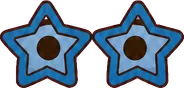
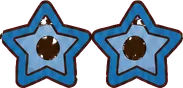
Elf Detective School: glasses keep only their frames, and hide none of the face
The lenses are clear, so the painting of the glasses on their own showed the base
elf's skin and eyes through them (Jaimie: "the glasses look really bad").

diff --git a/assets/js/elf-paint.js b/assets/js/elf-paint.js
@@ -2,7 +2,7 @@
  * scripts/elf-paint/manifest.mjs: do not edit by hand. Read by assets/js/elf-wardrobe.js. */
 (function () {
   "use strict";
-  var PAINT = {"canvas":{"w":1024,"h":1536,"view":[-79,0,1182,1536]},"layers":{"elf-brother-s1-bunches-black":{"x":212,"y":232,"w":614,"h":1107},"elf-brother-s1-bunches-blonde":{"x":167,"y":206,"w":699,"h":1134},"elf-brother-s1-bunches-brown":{"x":193,"y":251,"w":654,"h":1088},"elf-brother-s1-bunches-dark":{"x":189,"y":243,"w":655,"h":1096},"elf-brother-s1-bunches-ginger":{"x":219,"y":241,"w":616,"h":1098},"elf-brother-s1-curly-black":{"x":220,"y":218,"w":607,"h":1120},"elf-brother-s1-curly-blonde":{"x":219,"y":211,"w":609,"h":1128},"elf-brother-s1-curly-brown":{"x":221,"y":230,"w":605,"h":1108},"elf-brother-s1-curly-dark":{"x":220,"y":206,"w":607,"h":1133},"elf-brother-s1-curly-ginger":{"x":219,"y":202,"w":605,"h":1136},"elf-brother-s1-short-black":{"x":219,"y":230,"w":608,"h":1109},"elf-brother-s1-short-blonde":{"x":221,"y":224,"w":606,"h":1114},"elf-brother-s1-short-brown":{"x":221,"y":248,"w":606,"h":1090},"elf-brother-s1-short-dark":{"x":218,"y":230,"w":608,"h":1114},"elf-brother-s1-short-ginger":{"x":220,"y":230,"w":607,"h":1110},"elf-brother-s2-bunches-black":{"x":212,"y":274,"w":624,"h":1063},"elf-brother-s2-bunches-blonde":{"x":176,"y":179,"w":681,"h":1162},"elf-brother-s2-bunches-brown":{"x":183,"y":233,"w":657,"h":1106},"elf-brother-s2-bunches-dark":{"x":201,"y":235,"w":626,"h":1104},"elf-brother-s2-bunches-ginger":{"x":198,"y":236,"w":660,"h":1103},"elf-brother-s2-curly-black":{"x":220,"y":225,"w":607,"h":1114},"elf-brother-s2-curly-blonde":{"x":222,"y":195,"w":605,"h":1145},"elf-brother-s2-curly-brown":{"x":219,"y":225,"w":608,"h":1115},"elf-brother-s2-curly-dark":{"x":220,"y":215,"w":607,"h":1124},"elf-brother-s2-curly-ginger":{"x":220,"y":206,"w":608,"h":1133},"elf-brother-s2-short-black":{"x":218,"y":225,"w":609,"h":1114},"elf-brother-s2-short-blonde":{"x":214,"y":206,"w":612,"h":1136},"elf-brother-s2-short-brown":{"x":220,"y":220,"w":607,"h":1119},"elf-brother-s2-short-dark":{"x":218,"y":199,"w":608,"h":1140},"elf-brother-s2-short-ginger":{"x":221,"y":228,"w":606,"h":1112},"elf-brother-s3-bunches-black":{"x":212,"y":246,"w":612,"h":1093},"elf-brother-s3-bunches-blonde":{"x":184,"y":236,"w":643,"h":1103},"elf-brother-s3-bunches-brown":{"x":180,"y":239,"w":668,"h":1101},"elf-brother-s3-bunches-dark":{"x":220,"y":225,"w":608,"h":1113},"elf-brother-s3-bunches-ginger":{"x":204,"y":207,"w":637,"h":1133},"elf-brother-s3-curly-black":{"x":219,"y":212,"w":609,"h":1127},"elf-brother-s3-curly-blonde":{"x":218,"y":223,"w":607,"h":1117},"elf-brother-s3-curly-brown":{"x":220,"y":204,"w":608,"h":1134},"elf-brother-s3-curly-dark":{"x":220,"y":220,"w":605,"h":1118},"elf-brother-s3-curly-ginger":{"x":219,"y":200,"w":608,"h":1140},"elf-brother-s3-short-black":{"x":219,"y":228,"w":607,"h":1112},"elf-brother-s3-short-blonde":{"x":220,"y":229,"w":607,"h":1109},"elf-brother-s3-short-brown":{"x":217,"y":227,"w":608,"h":1113},"elf-brother-s3-short-dark":{"x":219,"y":224,"w":607,"h":1115},"elf-brother-s3-short-ginger":{"x":218,"y":208,"w":606,"h":1132},"elf-brother-s4-bunches-black":{"x":201,"y":244,"w":623,"h":1096},"elf-brother-s4-bunches-blonde":{"x":217,"y":195,"w":602,"h":1147},"elf-brother-s4-bunches-brown":{"x":216,"y":246,"w":604,"h":1093},"elf-brother-s4-bunches-dark":{"x":166,"y":260,"w":692,"h":1079},"elf-brother-s4-bunches-ginger":{"x":190,"y":232,"w":656,"h":1107},"elf-brother-s4-curly-black":{"x":219,"y":191,"w":604,"h":1156},"elf-brother-s4-curly-blonde":{"x":211,"y":213,"w":617,"h":1128},"elf-brother-s4-curly-brown":{"x":219,"y":207,"w":609,"h":1132},"elf-brother-s4-curly-dark":{"x":211,"y":181,"w":616,"h":1159},"elf-brother-s4-curly-ginger":{"x":221,"y":204,"w":605,"h":1134},"elf-brother-s4-short-black":{"x":219,"y":230,"w":608,"h":1108},"elf-brother-s4-short-blonde":{"x":219,"y":229,"w":608,"h":1111},"elf-brother-s4-short-brown":{"x":220,"y":220,"w":601,"h":1119},"elf-brother-s4-short-dark":{"x":218,"y":213,"w":609,"h":1126},"elf-brother-s4-short-ginger":{"x":220,"y":227,"w":608,"h":1113},"elf-brother-s5-bunches-black":{"x":224,"y":218,"w":602,"h":1121},"elf-brother-s5-bunches-blonde":{"x":178,"y":230,"w":675,"h":1109},"elf-brother-s5-bunches-brown":{"x":209,"y":238,"w":625,"h":1101},"elf-brother-s5-bunches-dark":{"x":203,"y":208,"w":628,"h":1137},"elf-brother-s5-bunches-ginger":{"x":200,"y":189,"w":631,"h":1151},"elf-brother-s5-curly-black":{"x":220,"y":205,"w":606,"h":1134},"elf-brother-s5-curly-blonde":{"x":221,"y":211,"w":601,"h":1128},"elf-brother-s5-curly-brown":{"x":220,"y":224,"w":604,"h":1118},"elf-brother-s5-curly-dark":{"x":221,"y":214,"w":601,"h":1127},"elf-brother-s5-curly-ginger":{"x":221,"y":231,"w":605,"h":1107},"elf-brother-s5-short-black":{"x":220,"y":230,"w":606,"h":1109},"elf-brother-s5-short-blonde":{"x":218,"y":225,"w":607,"h":1114},"elf-brother-s5-short-brown":{"x":221,"y":233,"w":603,"h":1106},"elf-brother-s5-short-dark":{"x":221,"y":232,"w":605,"h":1106},"elf-brother-s5-short-ginger":{"x":215,"y":215,"w":610,"h":1124},"elf-sister-s1-bunches-black":{"x":217,"y":204,"w":613,"h":1135},"elf-sister-s1-bunches-blonde":{"x":216,"y":202,"w":615,"h":1137},"elf-sister-s1-bunches-brown":{"x":217,"y":203,"w":613,"h":1136},"elf-sister-s1-bunches-dark":{"x":217,"y":202,"w":614,"h":1137},"elf-sister-s1-bunches-ginger":{"x":210,"y":204,"w":625,"h":1134},"elf-sister-s1-curly-black":{"x":215,"y":189,"w":616,"h":1148},"elf-sister-s1-curly-blonde":{"x":212,"y":175,"w":613,"h":1165},"elf-sister-s1-curly-brown":{"x":216,"y":198,"w":615,"h":1141},"elf-sister-s1-curly-dark":{"x":216,"y":163,"w":615,"h":1175},"elf-sister-s1-curly-ginger":{"x":217,"y":190,"w":609,"h":1148},"elf-sister-s1-short-black":{"x":215,"y":219,"w":615,"h":1118},"elf-sister-s1-short-blonde":{"x":214,"y":193,"w":615,"h":1146},"elf-sister-s1-short-brown":{"x":218,"y":223,"w":611,"h":1115},"elf-sister-s1-short-dark":{"x":214,"y":198,"w":616,"h":1142},"elf-sister-s1-short-ginger":{"x":226,"y":205,"w":598,"h":1136},"elf-sister-s2-bunches-black":{"x":217,"y":203,"w":613,"h":1136},"elf-sister-s2-bunches-blonde":{"x":217,"y":203,"w":614,"h":1136},"elf-sister-s2-bunches-brown":{"x":216,"y":201,"w":614,"h":1138},"elf-sister-s2-bunches-dark":{"x":215,"y":202,"w":615,"h":1136},"elf-sister-s2-bunches-ginger":{"x":216,"y":201,"w":614,"h":1137},"elf-sister-s2-curly-black":{"x":215,"y":181,"w":616,"h":1157},"elf-sister-s2-curly-blonde":{"x":217,"y":189,"w":612,"h":1149},"elf-sister-s2-curly-brown":{"x":215,"y":181,"w":616,"h":1158},"elf-sister-s2-curly-dark":{"x":216,"y":180,"w":615,"h":1159},"elf-sister-s2-curly-ginger":{"x":217,"y":194,"w":613,"h":1145},"elf-sister-s2-short-black":{"x":216,"y":213,"w":615,"h":1126},"elf-sister-s2-short-blonde":{"x":216,"y":208,"w":614,"h":1131},"elf-sister-s2-short-brown":{"x":217,"y":190,"w":611,"h":1149},"elf-sister-s2-short-dark":{"x":217,"y":199,"w":612,"h":1139},"elf-sister-s2-short-ginger":{"x":217,"y":185,"w":613,"h":1155},"elf-sister-s3-bunches-black":{"x":217,"y":205,"w":612,"h":1133},"elf-sister-s3-bunches-blonde":{"x":208,"y":202,"w":626,"h":1136},"elf-sister-s3-bunches-brown":{"x":213,"y":200,"w":617,"h":1138},"elf-sister-s3-bunches-dark":{"x":218,"y":203,"w":611,"h":1136},"elf-sister-s3-bunches-ginger":{"x":217,"y":205,"w":612,"h":1133},"elf-sister-s3-curly-black":{"x":219,"y":195,"w":610,"h":1144},"elf-sister-s3-curly-blonde":{"x":216,"y":203,"w":612,"h":1136},"elf-sister-s3-curly-brown":{"x":217,"y":185,"w":610,"h":1158},"elf-sister-s3-curly-dark":{"x":216,"y":193,"w":615,"h":1146},"elf-sister-s3-curly-ginger":{"x":215,"y":185,"w":613,"h":1153},"elf-sister-s3-short-black":{"x":217,"y":182,"w":613,"h":1157},"elf-sister-s3-short-blonde":{"x":218,"y":183,"w":610,"h":1157},"elf-sister-s3-short-brown":{"x":215,"y":202,"w":615,"h":1137},"elf-sister-s3-short-dark":{"x":216,"y":184,"w":616,"h":1154},"elf-sister-s3-short-ginger":{"x":216,"y":175,"w":615,"h":1162},"elf-sister-s4-bunches-black":{"x":214,"y":197,"w":615,"h":1139},"elf-sister-s4-bunches-blonde":{"x":209,"y":201,"w":625,"h":1139},"elf-sister-s4-bunches-brown":{"x":216,"y":199,"w":615,"h":1139},"elf-sister-s4-bunches-dark":{"x":215,"y":202,"w":616,"h":1137},"elf-sister-s4-bunches-ginger":{"x":208,"y":175,"w":628,"h":1169},"elf-sister-s4-curly-black":{"x":216,"y":155,"w":615,"h":1185},"elf-sister-s4-curly-blonde":{"x":216,"y":160,"w":610,"h":1183},"elf-sister-s4-curly-brown":{"x":216,"y":190,"w":614,"h":1149},"elf-sister-s4-curly-dark":{"x":216,"y":191,"w":611,"h":1147},"elf-sister-s4-curly-ginger":{"x":216,"y":196,"w":615,"h":1143},"elf-sister-s4-short-black":{"x":216,"y":183,"w":614,"h":1158},"elf-sister-s4-short-blonde":{"x":209,"y":185,"w":625,"h":1155},"elf-sister-s4-short-brown":{"x":206,"y":168,"w":625,"h":1173},"elf-sister-s4-short-dark":{"x":214,"y":201,"w":617,"h":1137},"elf-sister-s4-short-ginger":{"x":215,"y":180,"w":616,"h":1172},"elf-sister-s5-bunches-black":{"x":218,"y":205,"w":611,"h":1133},"elf-sister-s5-bunches-blonde":{"x":217,"y":202,"w":613,"h":1139},"elf-sister-s5-bunches-brown":{"x":216,"y":203,"w":614,"h":1135},"elf-sister-s5-bunches-dark":{"x":204,"y":174,"w":630,"h":1167},"elf-sister-s5-bunches-ginger":{"x":206,"y":187,"w":631,"h":1154},"elf-sister-s5-curly-black":{"x":217,"y":204,"w":612,"h":1135},"elf-sister-s5-curly-blonde":{"x":214,"y":177,"w":617,"h":1164},"elf-sister-s5-curly-brown":{"x":202,"y":168,"w":638,"h":1172},"elf-sister-s5-curly-dark":{"x":216,"y":209,"w":614,"h":1129},"elf-sister-s5-curly-ginger":{"x":206,"y":199,"w":628,"h":1142},"elf-sister-s5-short-black":{"x":213,"y":200,"w":613,"h":1139},"elf-sister-s5-short-blonde":{"x":216,"y":195,"w":614,"h":1143},"elf-sister-s5-short-brown":{"x":217,"y":201,"w":612,"h":1137},"elf-sister-s5-short-dark":{"x":216,"y":167,"w":613,"h":1177},"elf-sister-s5-short-ginger":{"x":218,"y":193,"w":612,"h":1147},"outfit-ginger":{"x":225,"y":205,"w":608,"h":1127,"cover":{"x":0,"y":0,"w":1024,"h":1536}},"outfit-golden":{"x":133,"y":171,"w":667,"h":1209,"cover":{"x":0,"y":0,"w":1024,"h":1536}},"outfit-grad":{"x":195,"y":137,"w":654,"h":1118,"cover":{"x":0,"y":0,"w":1024,"h":1536}},"outfit-nessie":{"x":243,"y":110,"w":671,"h":1191,"cover":{"x":0,"y":0,"w":1024,"h":1536}},"outfit-piper":{"x":260,"y":142,"w":647,"h":1250,"cover":{"x":0,"y":0,"w":1024,"h":1536}},"outfit-present":{"x":214,"y":162,"w":619,"h":1181,"cover":{"x":0,"y":0,"w":1024,"h":1536}},"outfit-pudding":{"x":148,"y":182,"w":765,"h":1136,"cover":{"x":0,"y":0,"w":1024,"h":1536}},"outfit-reindeer":{"x":192,"y":83,"w":686,"h":1210,"cover":{"x":0,"y":0,"w":1024,"h":1536}},"outfit-snowman":{"x":208,"y":132,"w":627,"h":1242,"cover":{"x":0,"y":0,"w":1024,"h":1536}},"outfit-tree":{"x":171,"y":54,"w":714,"h":1240,"cover":{"x":0,"y":0,"w":1024,"h":1536}},"outfit-workshop":{"x":104,"y":99,"w":773,"h":1271,"cover":{"x":0,"y":0,"w":1024,"h":1536}},"piece-badge-bronze":{"x":533,"y":757,"w":95,"h":96,"cover":{"x":656,"y":746,"w":12,"h":22}},"piece-badge-gold":{"x":533,"y":757,"w":96,"h":96,"cover":{"x":656,"y":746,"w":12,"h":21}},"piece-badge-silver":{"x":533,"y":758,"w":96,"h":95,"cover":{"x":656,"y":747,"w":12,"h":21}},"piece-bobble-blue":{"x":250,"y":54,"w":531,"h":435,"cover":{"x":210,"y":0,"w":611,"h":488}},"piece-bobble-green":{"x":248,"y":50,"w":532,"h":445,"cover":{"x":208,"y":0,"w":612,"h":495}},"piece-bobble-red":{"x":249,"y":53,"w":532,"h":448,"cover":{"x":209,"y":0,"w":611,"h":500}},"piece-boots-blue":{"x":380,"y":1176,"w":283,"h":181,"cover":{"x":513,"y":1280,"w":14,"h":41}},"piece-boots-brown":{"x":378,"y":1177,"w":284,"h":181,"cover":{"x":510,"y":1137,"w":17,"h":180}},"piece-boots-red":{"x":379,"y":1177,"w":283,"h":180,"cover":{"x":510,"y":1137,"w":17,"h":182}},"piece-bow-gold":{"x":455,"y":706,"w":142,"h":69,"cover":{"x":416,"y":697,"w":49,"h":23}},"piece-bow-green":{"x":457,"y":707,"w":139,"h":68,"cover":{"x":417,"y":696,"w":219,"h":23}},"piece-bow-red":{"x":456,"y":706,"w":139,"h":67,"cover":{"x":416,"y":671,"w":219,"h":48}},"piece-coat-grey":{"x":281,"y":663,"w":486,"h":503,"cover":{"x":317,"y":648,"w":403,"h":400}},"piece-coat-navy":{"x":272,"y":613,"w":500,"h":551,"cover":{"x":247,"y":648,"w":497,"h":410}},"piece-coat-tan":{"x":282,"y":663,"w":486,"h":504,"cover":{"x":318,"y":649,"w":404,"h":398}},"piece-crown-gold":{"x":278,"y":169,"w":478,"h":239,"cover":{"x":251,"y":185,"w":539,"h":238}},"piece-crown-green":{"x":278,"y":169,"w":476,"h":243,"cover":{"x":248,"y":185,"w":545,"h":261}},"piece-crown-red":{"x":278,"y":171,"w":478,"h":239,"cover":{"x":248,"y":185,"w":542,"h":261}},"piece-curly-gold":{"x":344,"y":1213,"w":350,"h":139,"cover":{"x":474,"y":1276,"w":92,"h":62}},"piece-curly-green":{"x":344,"y":1218,"w":348,"h":131,"cover":{"x":469,"y":1272,"w":102,"h":66}},"piece-curly-maroon":{"x":347,"y":1223,"w":345,"h":125,"cover":{"x":470,"y":1288,"w":102,"h":50}},"piece-deer-green":{"x":257,"y":159,"w":529,"h":314,"cover":{"x":217,"y":0,"w":609,"h":472}},"piece-deer-grey":{"x":257,"y":158,"w":522,"h":292,"cover":{"x":217,"y":0,"w":602,"h":466}},"piece-deer-tan":{"x":257,"y":156,"w":531,"h":318,"cover":{"x":217,"y":0,"w":610,"h":473}},"piece-elf-blue":{"x":267,"y":115,"w":598,"h":408,"cover":{"x":227,"y":0,"w":661,"h":523}},"piece-elf-green":{"x":267,"y":115,"w":598,"h":391,"cover":{"x":227,"y":0,"w":673,"h":506}},"piece-elf-red":{"x":266,"y":114,"w":600,"h":399,"cover":{"x":226,"y":0,"w":669,"h":512}},"piece-jumper-blue":{"x":265,"y":643,"w":504,"h":334,"cover":{"x":291,"y":652,"w":451,"h":84}},"piece-jumper-green":{"x":269,"y":638,"w":517,"h":332,"cover":{"x":297,"y":652,"w":471,"h":84}},"piece-jumper-red":{"x":241,"y":609,"w":555,"h":388,"cover":{"x":244,"y":651,"w":505,"h":86}},"piece-lantern-gold":{"x":185,"y":954,"w":176,"h":378,"cover":{"x":251,"y":946,"w":142,"h":103}},"piece-lantern-green":{"x":185,"y":895,"w":197,"h":438,"cover":{"x":251,"y":701,"w":195,"h":348}},"piece-lantern-red":{"x":184,"y":895,"w":196,"h":437,"cover":{"x":251,"y":706,"w":183,"h":339}},"piece-mag-brass":{"x":47,"y":540,"w":269,"h":426,"cover":{"x":248,"y":937,"w":148,"h":121}},"piece-mag-gold":{"x":47,"y":542,"w":269,"h":425,"cover":{"x":248,"y":937,"w":156,"h":121}},"piece-mag-silver":{"x":49,"y":541,"w":268,"h":425,"cover":{"x":248,"y":936,"w":157,"h":122}},"piece-notebook-blue":{"x":611,"y":786,"w":225,"h":267,"cover":{"x":391,"y":587,"w":436,"h":595}},"piece-notebook-green":{"x":610,"y":786,"w":225,"h":267,"cover":{"x":397,"y":585,"w":430,"h":593}},"piece-notebook-red":{"x":611,"y":785,"w":226,"h":267,"cover":{"x":418,"y":1016,"w":385,"h":196}},"piece-puffer-blue":{"x":282,"y":620,"w":487,"h":386,"cover":{"x":264,"y":729,"w":523,"h":311}},"piece-puffer-green":{"x":273,"y":619,"w":503,"h":411,"cover":{"x":251,"y":654,"w":549,"h":390}},"piece-puffer-red":{"x":280,"y":628,"w":493,"h":376,"cover":{"x":269,"y":922,"w":521,"h":90}},"piece-santa-blue":{"x":247,"y":146,"w":661,"h":480,"cover":{"x":215,"y":0,"w":733,"h":626}},"piece-santa-green":{"x":247,"y":147,"w":661,"h":479,"cover":{"x":215,"y":0,"w":732,"h":626}},"piece-santa-red":{"x":247,"y":144,"w":661,"h":481,"cover":{"x":215,"y":0,"w":733,"h":625}},"piece-satchel-brown":{"x":420,"y":698,"w":284,"h":365,"cover":{"x":401,"y":660,"w":341,"h":393}},"piece-satchel-green":{"x":428,"y":704,"w":275,"h":358,"cover":{"x":409,"y":665,"w":333,"h":388}},"piece-satchel-red":{"x":423,"y":698,"w":285,"h":366,"cover":{"x":386,"y":696,"w":321,"h":348}},"piece-specs-black":{"x":330,"y":481,"w":394,"h":141,"cover":{"x":386,"y":582,"w":378,"h":80}},"piece-specs-gold":{"x":316,"y":477,"w":420,"h":150,"cover":{"x":276,"y":568,"w":503,"h":99}},"piece-specs-red":{"x":347,"y":486,"w":363,"h":134,"cover":{"x":386,"y":652,"w":281,"h":8}},"piece-stars-blue":{"x":344,"y":449,"w":368,"h":176,"cover":{"x":378,"y":653,"w":288,"h":12}},"piece-stars-gold":{"x":344,"y":449,"w":369,"h":176,"cover":{"x":379,"y":653,"w":293,"h":11}},"piece-stars-red":{"x":297,"y":426,"w":445,"h":216,"cover":{"x":254,"y":455,"w":149,"h":207}},"piece-stripe-blue":{"x":388,"y":658,"w":277,"h":365,"cover":{"x":369,"y":654,"w":304,"h":360}},"piece-stripe-green":{"x":388,"y":655,"w":277,"h":368,"cover":{"x":369,"y":746,"w":316,"h":268}},"piece-stripe-red":{"x":388,"y":655,"w":277,"h":369,"cover":{"x":359,"y":652,"w":344,"h":392}},"piece-tammy-blue":{"x":208,"y":153,"w":592,"h":318,"cover":{"x":168,"y":0,"w":672,"h":471}},"piece-tammy-green":{"x":209,"y":153,"w":593,"h":320,"cover":{"x":169,"y":0,"w":673,"h":473}},"piece-tammy-red":{"x":208,"y":152,"w":593,"h":320,"cover":{"x":168,"y":0,"w":672,"h":471}},"piece-tartan-blue":{"x":394,"y":655,"w":266,"h":336,"cover":{"x":374,"y":653,"w":298,"h":375}},"piece-tartan-green":{"x":394,"y":645,"w":266,"h":345,"cover":{"x":370,"y":654,"w":310,"h":138}},"piece-tartan-red":{"x":395,"y":643,"w":266,"h":349,"cover":{"x":371,"y":740,"w":29,"h":52}},"piece-tinsel-gold":{"x":391,"y":666,"w":263,"h":170,"cover":{"x":364,"y":652,"w":328,"h":153}},"piece-tinsel-red":{"x":387,"y":668,"w":270,"h":169,"cover":{"x":362,"y":653,"w":305,"h":156}},"piece-tinsel-silver":{"x":388,"y":671,"w":270,"h":165,"cover":{"x":362,"y":654,"w":311,"h":155}},"piece-torch-blue":{"x":144,"y":661,"w":174,"h":287,"cover":{"x":248,"y":903,"w":161,"h":155}},"piece-torch-green":{"x":144,"y":663,"w":173,"h":286,"cover":{"x":248,"y":902,"w":158,"h":156}},"piece-torch-red":{"x":143,"y":661,"w":174,"h":287,"cover":{"x":248,"y":902,"w":158,"h":156}},"piece-tunic-blue":{"x":194,"y":592,"w":589,"h":455,"cover":{"x":298,"y":737,"w":370,"h":266}},"piece-tunic-green":{"x":278,"y":694,"w":524,"h":390,"cover":{"x":380,"y":897,"w":288,"h":103}},"piece-tunic-red":{"x":304,"y":630,"w":429,"h":370,"cover":{"x":380,"y":741,"w":331,"h":261}},"piece-wellies-green":{"x":387,"y":1127,"w":272,"h":238,"cover":{"x":505,"y":1245,"w":45,"h":92}},"piece-wellies-red":{"x":386,"y":1130,"w":273,"h":235,"cover":{"x":504,"y":1249,"w":46,"h":88}},"piece-wellies-yellow":{"x":387,"y":1131,"w":273,"h":233,"cover":{"x":508,"y":1220,"w":43,"h":117}}}};
+  var PAINT = {"canvas":{"w":1024,"h":1536,"view":[-79,0,1182,1536]},"layers":{"elf-brother-s1-bunches-black":{"x":212,"y":232,"w":614,"h":1107},"elf-brother-s1-bunches-blonde":{"x":167,"y":206,"w":699,"h":1134},"elf-brother-s1-bunches-brown":{"x":193,"y":251,"w":654,"h":1088},"elf-brother-s1-bunches-dark":{"x":189,"y":243,"w":655,"h":1096},"elf-brother-s1-bunches-ginger":{"x":219,"y":241,"w":616,"h":1098},"elf-brother-s1-curly-black":{"x":220,"y":218,"w":607,"h":1120},"elf-brother-s1-curly-blonde":{"x":219,"y":211,"w":609,"h":1128},"elf-brother-s1-curly-brown":{"x":221,"y":230,"w":605,"h":1108},"elf-brother-s1-curly-dark":{"x":220,"y":206,"w":607,"h":1133},"elf-brother-s1-curly-ginger":{"x":219,"y":202,"w":605,"h":1136},"elf-brother-s1-short-black":{"x":219,"y":230,"w":608,"h":1109},"elf-brother-s1-short-blonde":{"x":221,"y":224,"w":606,"h":1114},"elf-brother-s1-short-brown":{"x":221,"y":248,"w":606,"h":1090},"elf-brother-s1-short-dark":{"x":218,"y":230,"w":608,"h":1114},"elf-brother-s1-short-ginger":{"x":220,"y":230,"w":607,"h":1110},"elf-brother-s2-bunches-black":{"x":212,"y":274,"w":624,"h":1063},"elf-brother-s2-bunches-blonde":{"x":176,"y":179,"w":681,"h":1162},"elf-brother-s2-bunches-brown":{"x":183,"y":233,"w":657,"h":1106},"elf-brother-s2-bunches-dark":{"x":201,"y":235,"w":626,"h":1104},"elf-brother-s2-bunches-ginger":{"x":198,"y":236,"w":660,"h":1103},"elf-brother-s2-curly-black":{"x":220,"y":225,"w":607,"h":1114},"elf-brother-s2-curly-blonde":{"x":222,"y":195,"w":605,"h":1145},"elf-brother-s2-curly-brown":{"x":219,"y":225,"w":608,"h":1115},"elf-brother-s2-curly-dark":{"x":220,"y":215,"w":607,"h":1124},"elf-brother-s2-curly-ginger":{"x":220,"y":206,"w":608,"h":1133},"elf-brother-s2-short-black":{"x":218,"y":225,"w":609,"h":1114},"elf-brother-s2-short-blonde":{"x":214,"y":206,"w":612,"h":1136},"elf-brother-s2-short-brown":{"x":220,"y":220,"w":607,"h":1119},"elf-brother-s2-short-dark":{"x":218,"y":199,"w":608,"h":1140},"elf-brother-s2-short-ginger":{"x":221,"y":228,"w":606,"h":1112},"elf-brother-s3-bunches-black":{"x":212,"y":246,"w":612,"h":1093},"elf-brother-s3-bunches-blonde":{"x":184,"y":236,"w":643,"h":1103},"elf-brother-s3-bunches-brown":{"x":180,"y":239,"w":668,"h":1101},"elf-brother-s3-bunches-dark":{"x":220,"y":225,"w":608,"h":1113},"elf-brother-s3-bunches-ginger":{"x":204,"y":207,"w":637,"h":1133},"elf-brother-s3-curly-black":{"x":219,"y":212,"w":609,"h":1127},"elf-brother-s3-curly-blonde":{"x":218,"y":223,"w":607,"h":1117},"elf-brother-s3-curly-brown":{"x":220,"y":204,"w":608,"h":1134},"elf-brother-s3-curly-dark":{"x":220,"y":220,"w":605,"h":1118},"elf-brother-s3-curly-ginger":{"x":219,"y":200,"w":608,"h":1140},"elf-brother-s3-short-black":{"x":219,"y":228,"w":607,"h":1112},"elf-brother-s3-short-blonde":{"x":220,"y":229,"w":607,"h":1109},"elf-brother-s3-short-brown":{"x":217,"y":227,"w":608,"h":1113},"elf-brother-s3-short-dark":{"x":219,"y":224,"w":607,"h":1115},"elf-brother-s3-short-ginger":{"x":218,"y":208,"w":606,"h":1132},"elf-brother-s4-bunches-black":{"x":201,"y":244,"w":623,"h":1096},"elf-brother-s4-bunches-blonde":{"x":217,"y":195,"w":602,"h":1147},"elf-brother-s4-bunches-brown":{"x":216,"y":246,"w":604,"h":1093},"elf-brother-s4-bunches-dark":{"x":166,"y":260,"w":692,"h":1079},"elf-brother-s4-bunches-ginger":{"x":190,"y":232,"w":656,"h":1107},"elf-brother-s4-curly-black":{"x":219,"y":191,"w":604,"h":1156},"elf-brother-s4-curly-blonde":{"x":211,"y":213,"w":617,"h":1128},"elf-brother-s4-curly-brown":{"x":219,"y":207,"w":609,"h":1132},"elf-brother-s4-curly-dark":{"x":211,"y":181,"w":616,"h":1159},"elf-brother-s4-curly-ginger":{"x":221,"y":204,"w":605,"h":1134},"elf-brother-s4-short-black":{"x":219,"y":230,"w":608,"h":1108},"elf-brother-s4-short-blonde":{"x":219,"y":229,"w":608,"h":1111},"elf-brother-s4-short-brown":{"x":220,"y":220,"w":601,"h":1119},"elf-brother-s4-short-dark":{"x":218,"y":213,"w":609,"h":1126},"elf-brother-s4-short-ginger":{"x":220,"y":227,"w":608,"h":1113},"elf-brother-s5-bunches-black":{"x":224,"y":218,"w":602,"h":1121},"elf-brother-s5-bunches-blonde":{"x":178,"y":230,"w":675,"h":1109},"elf-brother-s5-bunches-brown":{"x":209,"y":238,"w":625,"h":1101},"elf-brother-s5-bunches-dark":{"x":203,"y":208,"w":628,"h":1137},"elf-brother-s5-bunches-ginger":{"x":200,"y":189,"w":631,"h":1151},"elf-brother-s5-curly-black":{"x":220,"y":205,"w":606,"h":1134},"elf-brother-s5-curly-blonde":{"x":221,"y":211,"w":601,"h":1128},"elf-brother-s5-curly-brown":{"x":220,"y":224,"w":604,"h":1118},"elf-brother-s5-curly-dark":{"x":221,"y":214,"w":601,"h":1127},"elf-brother-s5-curly-ginger":{"x":221,"y":231,"w":605,"h":1107},"elf-brother-s5-short-black":{"x":220,"y":230,"w":606,"h":1109},"elf-brother-s5-short-blonde":{"x":218,"y":225,"w":607,"h":1114},"elf-brother-s5-short-brown":{"x":221,"y":233,"w":603,"h":1106},"elf-brother-s5-short-dark":{"x":221,"y":232,"w":605,"h":1106},"elf-brother-s5-short-ginger":{"x":215,"y":215,"w":610,"h":1124},"elf-sister-s1-bunches-black":{"x":217,"y":204,"w":613,"h":1135},"elf-sister-s1-bunches-blonde":{"x":216,"y":202,"w":615,"h":1137},"elf-sister-s1-bunches-brown":{"x":217,"y":203,"w":613,"h":1136},"elf-sister-s1-bunches-dark":{"x":217,"y":202,"w":614,"h":1137},"elf-sister-s1-bunches-ginger":{"x":210,"y":204,"w":625,"h":1134},"elf-sister-s1-curly-black":{"x":215,"y":189,"w":616,"h":1148},"elf-sister-s1-curly-blonde":{"x":212,"y":175,"w":613,"h":1165},"elf-sister-s1-curly-brown":{"x":216,"y":198,"w":615,"h":1141},"elf-sister-s1-curly-dark":{"x":216,"y":163,"w":615,"h":1175},"elf-sister-s1-curly-ginger":{"x":217,"y":190,"w":609,"h":1148},"elf-sister-s1-short-black":{"x":215,"y":219,"w":615,"h":1118},"elf-sister-s1-short-blonde":{"x":214,"y":193,"w":615,"h":1146},"elf-sister-s1-short-brown":{"x":218,"y":223,"w":611,"h":1115},"elf-sister-s1-short-dark":{"x":214,"y":198,"w":616,"h":1142},"elf-sister-s1-short-ginger":{"x":226,"y":205,"w":598,"h":1136},"elf-sister-s2-bunches-black":{"x":217,"y":203,"w":613,"h":1136},"elf-sister-s2-bunches-blonde":{"x":217,"y":203,"w":614,"h":1136},"elf-sister-s2-bunches-brown":{"x":216,"y":201,"w":614,"h":1138},"elf-sister-s2-bunches-dark":{"x":215,"y":202,"w":615,"h":1136},"elf-sister-s2-bunches-ginger":{"x":216,"y":201,"w":614,"h":1137},"elf-sister-s2-curly-black":{"x":215,"y":181,"w":616,"h":1157},"elf-sister-s2-curly-blonde":{"x":217,"y":189,"w":612,"h":1149},"elf-sister-s2-curly-brown":{"x":215,"y":181,"w":616,"h":1158},"elf-sister-s2-curly-dark":{"x":216,"y":180,"w":615,"h":1159},"elf-sister-s2-curly-ginger":{"x":217,"y":194,"w":613,"h":1145},"elf-sister-s2-short-black":{"x":216,"y":213,"w":615,"h":1126},"elf-sister-s2-short-blonde":{"x":216,"y":208,"w":614,"h":1131},"elf-sister-s2-short-brown":{"x":217,"y":190,"w":611,"h":1149},"elf-sister-s2-short-dark":{"x":217,"y":199,"w":612,"h":1139},"elf-sister-s2-short-ginger":{"x":217,"y":185,"w":613,"h":1155},"elf-sister-s3-bunches-black":{"x":217,"y":205,"w":612,"h":1133},"elf-sister-s3-bunches-blonde":{"x":208,"y":202,"w":626,"h":1136},"elf-sister-s3-bunches-brown":{"x":213,"y":200,"w":617,"h":1138},"elf-sister-s3-bunches-dark":{"x":218,"y":203,"w":611,"h":1136},"elf-sister-s3-bunches-ginger":{"x":217,"y":205,"w":612,"h":1133},"elf-sister-s3-curly-black":{"x":219,"y":195,"w":610,"h":1144},"elf-sister-s3-curly-blonde":{"x":216,"y":203,"w":612,"h":1136},"elf-sister-s3-curly-brown":{"x":217,"y":185,"w":610,"h":1158},"elf-sister-s3-curly-dark":{"x":216,"y":193,"w":615,"h":1146},"elf-sister-s3-curly-ginger":{"x":215,"y":185,"w":613,"h":1153},"elf-sister-s3-short-black":{"x":217,"y":182,"w":613,"h":1157},"elf-sister-s3-short-blonde":{"x":218,"y":183,"w":610,"h":1157},"elf-sister-s3-short-brown":{"x":215,"y":202,"w":615,"h":1137},"elf-sister-s3-short-dark":{"x":216,"y":184,"w":616,"h":1154},"elf-sister-s3-short-ginger":{"x":216,"y":175,"w":615,"h":1162},"elf-sister-s4-bunches-black":{"x":214,"y":197,"w":615,"h":1139},"elf-sister-s4-bunches-blonde":{"x":209,"y":201,"w":625,"h":1139},"elf-sister-s4-bunches-brown":{"x":216,"y":199,"w":615,"h":1139},"elf-sister-s4-bunches-dark":{"x":215,"y":202,"w":616,"h":1137},"elf-sister-s4-bunches-ginger":{"x":208,"y":175,"w":628,"h":1169},"elf-sister-s4-curly-black":{"x":216,"y":155,"w":615,"h":1185},"elf-sister-s4-curly-blonde":{"x":216,"y":160,"w":610,"h":1183},"elf-sister-s4-curly-brown":{"x":216,"y":190,"w":614,"h":1149},"elf-sister-s4-curly-dark":{"x":216,"y":191,"w":611,"h":1147},"elf-sister-s4-curly-ginger":{"x":216,"y":196,"w":615,"h":1143},"elf-sister-s4-short-black":{"x":216,"y":183,"w":614,"h":1158},"elf-sister-s4-short-blonde":{"x":209,"y":185,"w":625,"h":1155},"elf-sister-s4-short-brown":{"x":206,"y":168,"w":625,"h":1173},"elf-sister-s4-short-dark":{"x":214,"y":201,"w":617,"h":1137},"elf-sister-s4-short-ginger":{"x":215,"y":180,"w":616,"h":1172},"elf-sister-s5-bunches-black":{"x":218,"y":205,"w":611,"h":1133},"elf-sister-s5-bunches-blonde":{"x":217,"y":202,"w":613,"h":1139},"elf-sister-s5-bunches-brown":{"x":216,"y":203,"w":614,"h":1135},"elf-sister-s5-bunches-dark":{"x":204,"y":174,"w":630,"h":1167},"elf-sister-s5-bunches-ginger":{"x":206,"y":187,"w":631,"h":1154},"elf-sister-s5-curly-black":{"x":217,"y":204,"w":612,"h":1135},"elf-sister-s5-curly-blonde":{"x":214,"y":177,"w":617,"h":1164},"elf-sister-s5-curly-brown":{"x":202,"y":168,"w":638,"h":1172},"elf-sister-s5-curly-dark":{"x":216,"y":209,"w":614,"h":1129},"elf-sister-s5-curly-ginger":{"x":206,"y":199,"w":628,"h":1142},"elf-sister-s5-short-black":{"x":213,"y":200,"w":613,"h":1139},"elf-sister-s5-short-blonde":{"x":216,"y":195,"w":614,"h":1143},"elf-sister-s5-short-brown":{"x":217,"y":201,"w":612,"h":1137},"elf-sister-s5-short-dark":{"x":216,"y":167,"w":613,"h":1177},"elf-sister-s5-short-ginger":{"x":218,"y":193,"w":612,"h":1147},"outfit-ginger":{"x":225,"y":205,"w":608,"h":1127,"cover":{"x":0,"y":0,"w":1024,"h":1536}},"outfit-golden":{"x":133,"y":171,"w":667,"h":1209,"cover":{"x":0,"y":0,"w":1024,"h":1536}},"outfit-grad":{"x":195,"y":137,"w":654,"h":1118,"cover":{"x":0,"y":0,"w":1024,"h":1536}},"outfit-nessie":{"x":243,"y":110,"w":671,"h":1191,"cover":{"x":0,"y":0,"w":1024,"h":1536}},"outfit-piper":{"x":260,"y":142,"w":647,"h":1250,"cover":{"x":0,"y":0,"w":1024,"h":1536}},"outfit-present":{"x":214,"y":162,"w":619,"h":1181,"cover":{"x":0,"y":0,"w":1024,"h":1536}},"outfit-pudding":{"x":148,"y":182,"w":765,"h":1136,"cover":{"x":0,"y":0,"w":1024,"h":1536}},"outfit-reindeer":{"x":192,"y":83,"w":686,"h":1210,"cover":{"x":0,"y":0,"w":1024,"h":1536}},"outfit-snowman":{"x":208,"y":132,"w":627,"h":1242,"cover":{"x":0,"y":0,"w":1024,"h":1536}},"outfit-tree":{"x":171,"y":54,"w":714,"h":1240,"cover":{"x":0,"y":0,"w":1024,"h":1536}},"outfit-workshop":{"x":104,"y":99,"w":773,"h":1271,"cover":{"x":0,"y":0,"w":1024,"h":1536}},"piece-badge-bronze":{"x":533,"y":757,"w":95,"h":96,"cover":{"x":656,"y":746,"w":12,"h":22}},"piece-badge-gold":{"x":533,"y":757,"w":96,"h":96,"cover":{"x":656,"y":746,"w":12,"h":21}},"piece-badge-silver":{"x":533,"y":758,"w":96,"h":95,"cover":{"x":656,"y":747,"w":12,"h":21}},"piece-bobble-blue":{"x":250,"y":54,"w":531,"h":435,"cover":{"x":210,"y":0,"w":611,"h":488}},"piece-bobble-green":{"x":248,"y":50,"w":532,"h":445,"cover":{"x":208,"y":0,"w":612,"h":495}},"piece-bobble-red":{"x":249,"y":53,"w":532,"h":448,"cover":{"x":209,"y":0,"w":611,"h":500}},"piece-boots-blue":{"x":380,"y":1176,"w":283,"h":181,"cover":{"x":513,"y":1280,"w":14,"h":41}},"piece-boots-brown":{"x":378,"y":1177,"w":284,"h":181,"cover":{"x":510,"y":1137,"w":17,"h":180}},"piece-boots-red":{"x":379,"y":1177,"w":283,"h":180,"cover":{"x":510,"y":1137,"w":17,"h":182}},"piece-bow-gold":{"x":455,"y":706,"w":142,"h":69,"cover":{"x":416,"y":697,"w":49,"h":23}},"piece-bow-green":{"x":457,"y":707,"w":139,"h":68,"cover":{"x":417,"y":696,"w":219,"h":23}},"piece-bow-red":{"x":456,"y":706,"w":139,"h":67,"cover":{"x":416,"y":671,"w":219,"h":48}},"piece-coat-grey":{"x":281,"y":663,"w":486,"h":503,"cover":{"x":317,"y":648,"w":403,"h":400}},"piece-coat-navy":{"x":272,"y":613,"w":500,"h":551,"cover":{"x":247,"y":648,"w":497,"h":410}},"piece-coat-tan":{"x":282,"y":663,"w":486,"h":504,"cover":{"x":318,"y":649,"w":404,"h":398}},"piece-crown-gold":{"x":278,"y":169,"w":478,"h":239,"cover":{"x":251,"y":185,"w":539,"h":238}},"piece-crown-green":{"x":278,"y":169,"w":476,"h":243,"cover":{"x":248,"y":185,"w":545,"h":261}},"piece-crown-red":{"x":278,"y":171,"w":478,"h":239,"cover":{"x":248,"y":185,"w":542,"h":261}},"piece-curly-gold":{"x":344,"y":1213,"w":350,"h":139,"cover":{"x":474,"y":1276,"w":92,"h":62}},"piece-curly-green":{"x":344,"y":1218,"w":348,"h":131,"cover":{"x":469,"y":1272,"w":102,"h":66}},"piece-curly-maroon":{"x":347,"y":1223,"w":345,"h":125,"cover":{"x":470,"y":1288,"w":102,"h":50}},"piece-deer-green":{"x":257,"y":159,"w":529,"h":314,"cover":{"x":217,"y":0,"w":609,"h":472}},"piece-deer-grey":{"x":257,"y":158,"w":522,"h":292,"cover":{"x":217,"y":0,"w":602,"h":466}},"piece-deer-tan":{"x":257,"y":156,"w":531,"h":318,"cover":{"x":217,"y":0,"w":610,"h":473}},"piece-elf-blue":{"x":267,"y":115,"w":598,"h":408,"cover":{"x":227,"y":0,"w":661,"h":523}},"piece-elf-green":{"x":267,"y":115,"w":598,"h":391,"cover":{"x":227,"y":0,"w":673,"h":506}},"piece-elf-red":{"x":266,"y":114,"w":600,"h":399,"cover":{"x":226,"y":0,"w":669,"h":512}},"piece-jumper-blue":{"x":265,"y":643,"w":504,"h":334,"cover":{"x":291,"y":652,"w":451,"h":84}},"piece-jumper-green":{"x":269,"y":638,"w":517,"h":332,"cover":{"x":297,"y":652,"w":471,"h":84}},"piece-jumper-red":{"x":241,"y":609,"w":555,"h":388,"cover":{"x":244,"y":651,"w":505,"h":86}},"piece-lantern-gold":{"x":185,"y":954,"w":176,"h":378,"cover":{"x":251,"y":946,"w":142,"h":103}},"piece-lantern-green":{"x":185,"y":895,"w":197,"h":438,"cover":{"x":251,"y":701,"w":195,"h":348}},"piece-lantern-red":{"x":184,"y":895,"w":196,"h":437,"cover":{"x":251,"y":706,"w":183,"h":339}},"piece-mag-brass":{"x":47,"y":540,"w":269,"h":426,"cover":{"x":248,"y":937,"w":148,"h":121}},"piece-mag-gold":{"x":47,"y":542,"w":269,"h":425,"cover":{"x":248,"y":937,"w":156,"h":121}},"piece-mag-silver":{"x":49,"y":541,"w":268,"h":425,"cover":{"x":248,"y":936,"w":157,"h":122}},"piece-notebook-blue":{"x":611,"y":786,"w":225,"h":267,"cover":{"x":391,"y":587,"w":436,"h":595}},"piece-notebook-green":{"x":610,"y":786,"w":225,"h":267,"cover":{"x":397,"y":585,"w":430,"h":593}},"piece-notebook-red":{"x":611,"y":785,"w":226,"h":267,"cover":{"x":418,"y":1016,"w":385,"h":196}},"piece-puffer-blue":{"x":282,"y":620,"w":487,"h":386,"cover":{"x":264,"y":729,"w":523,"h":311}},"piece-puffer-green":{"x":273,"y":619,"w":503,"h":411,"cover":{"x":251,"y":654,"w":549,"h":390}},"piece-puffer-red":{"x":280,"y":628,"w":493,"h":376,"cover":{"x":269,"y":922,"w":521,"h":90}},"piece-santa-blue":{"x":247,"y":146,"w":661,"h":480,"cover":{"x":215,"y":0,"w":733,"h":626}},"piece-santa-green":{"x":247,"y":147,"w":661,"h":479,"cover":{"x":215,"y":0,"w":732,"h":626}},"piece-santa-red":{"x":247,"y":144,"w":661,"h":481,"cover":{"x":215,"y":0,"w":733,"h":625}},"piece-satchel-brown":{"x":420,"y":698,"w":284,"h":365,"cover":{"x":401,"y":660,"w":341,"h":393}},"piece-satchel-green":{"x":428,"y":704,"w":275,"h":358,"cover":{"x":409,"y":665,"w":333,"h":388}},"piece-satchel-red":{"x":423,"y":698,"w":285,"h":366,"cover":{"x":386,"y":696,"w":321,"h":348}},"piece-specs-black":{"x":347,"y":481,"w":362,"h":141},"piece-specs-gold":{"x":316,"y":472,"w":423,"h":155},"piece-specs-red":{"x":347,"y":486,"w":363,"h":134},"piece-stars-blue":{"x":345,"y":449,"w":366,"h":176},"piece-stars-gold":{"x":349,"y":449,"w":361,"h":176},"piece-stars-red":{"x":294,"y":425,"w":448,"h":219},"piece-stripe-blue":{"x":388,"y":658,"w":277,"h":365,"cover":{"x":369,"y":654,"w":304,"h":360}},"piece-stripe-green":{"x":388,"y":655,"w":277,"h":368,"cover":{"x":369,"y":746,"w":316,"h":268}},"piece-stripe-red":{"x":388,"y":655,"w":277,"h":369,"cover":{"x":359,"y":652,"w":344,"h":392}},"piece-tammy-blue":{"x":208,"y":153,"w":592,"h":318,"cover":{"x":168,"y":0,"w":672,"h":471}},"piece-tammy-green":{"x":209,"y":153,"w":593,"h":320,"cover":{"x":169,"y":0,"w":673,"h":473}},"piece-tammy-red":{"x":208,"y":152,"w":593,"h":320,"cover":{"x":168,"y":0,"w":672,"h":471}},"piece-tartan-blue":{"x":394,"y":655,"w":266,"h":336,"cover":{"x":374,"y":653,"w":298,"h":375}},"piece-tartan-green":{"x":394,"y":645,"w":266,"h":345,"cover":{"x":370,"y":654,"w":310,"h":138}},"piece-tartan-red":{"x":395,"y":643,"w":266,"h":349,"cover":{"x":371,"y":740,"w":29,"h":52}},"piece-tinsel-gold":{"x":391,"y":666,"w":263,"h":170,"cover":{"x":364,"y":652,"w":328,"h":153}},"piece-tinsel-red":{"x":387,"y":668,"w":270,"h":169,"cover":{"x":362,"y":653,"w":305,"h":156}},"piece-tinsel-silver":{"x":388,"y":671,"w":270,"h":165,"cover":{"x":362,"y":654,"w":311,"h":155}},"piece-torch-blue":{"x":144,"y":661,"w":174,"h":287,"cover":{"x":248,"y":903,"w":161,"h":155}},"piece-torch-green":{"x":144,"y":663,"w":173,"h":286,"cover":{"x":248,"y":902,"w":158,"h":156}},"piece-torch-red":{"x":143,"y":661,"w":174,"h":287,"cover":{"x":248,"y":902,"w":158,"h":156}},"piece-tunic-blue":{"x":194,"y":592,"w":589,"h":455,"cover":{"x":298,"y":737,"w":370,"h":266}},"piece-tunic-green":{"x":278,"y":694,"w":524,"h":390,"cover":{"x":380,"y":897,"w":288,"h":103}},"piece-tunic-red":{"x":304,"y":630,"w":429,"h":370,"cover":{"x":380,"y":741,"w":331,"h":261}},"piece-wellies-green":{"x":387,"y":1127,"w":272,"h":238,"cover":{"x":505,"y":1245,"w":45,"h":92}},"piece-wellies-red":{"x":386,"y":1130,"w":273,"h":235,"cover":{"x":504,"y":1249,"w":46,"h":88}},"piece-wellies-yellow":{"x":387,"y":1131,"w":273,"h":233,"cover":{"x":508,"y":1220,"w":43,"h":117}}}};
   (function freeze(v) { if (v && typeof v === "object" && !Object.isFrozen(v)) { Object.freeze(v); for (var k in v) freeze(v[k]); } })(PAINT);
   if (typeof module !== "undefined" && module.exports) module.exports = PAINT;
   else window.NBCCElfPaint = PAINT;

diff --git a/test/unit/elf-paint-cutout.test.ts b/test/unit/elf-paint-cutout.test.ts
@@ -245,6 +245,22 @@ describe("lifting a piece off", () => {
     expect(cover === null || alphaAt(cover, 85, 85) === 0).toBe(true);
   });
 
+  it("keeps only the frames of glasses, never the face seen through the lenses, and hides nothing", () => {
+    // Glasses looked bad (Jaimie, 3 November 2026): the lenses carried the base elf's skin and eyes.
+    const master = elf();
+    rect(master, 50, 42, 70, 58, [251, 216, 165]); // the face
+    rect(master, 56, 48, 60, 52, [70, 30, 20]); // an eye
+    const worn = rect(elf(), 50, 42, 70, 58, [251, 216, 165]);
+    rect(worn, 55, 47, 61, 53, [251, 216, 165]); // the eye, a little off in this painting
+    rect(worn, 50, 42, 70, 44, LINE); // the frame's top bar
+    const alone = rect(blank(), 50, 42, 70, 58, [251, 216, 165]); // on its own: frame AND the face in the lens
+    rect(alone, 50, 42, 70, 44, LINE);
+    const { layer, cover } = isolate(alone, worn, master, { still: [40, 100, 80, 150], clearLenses: true });
+    expect(alphaAt(layer, 60, 43)).toBe(255); // the frame
+    expect(alphaAt(layer, 60, 55)).toBe(0); // not the face through the lens
+    expect(cover).toBeNull(); // and the elf's own eyes stay
+  });
+
   it("marks nothing when the piece hides none of the elf", () => {
     const master = elf();
     const worn = rect(elf(), 40, 10, 80, 40, [30, 90, 160]);
